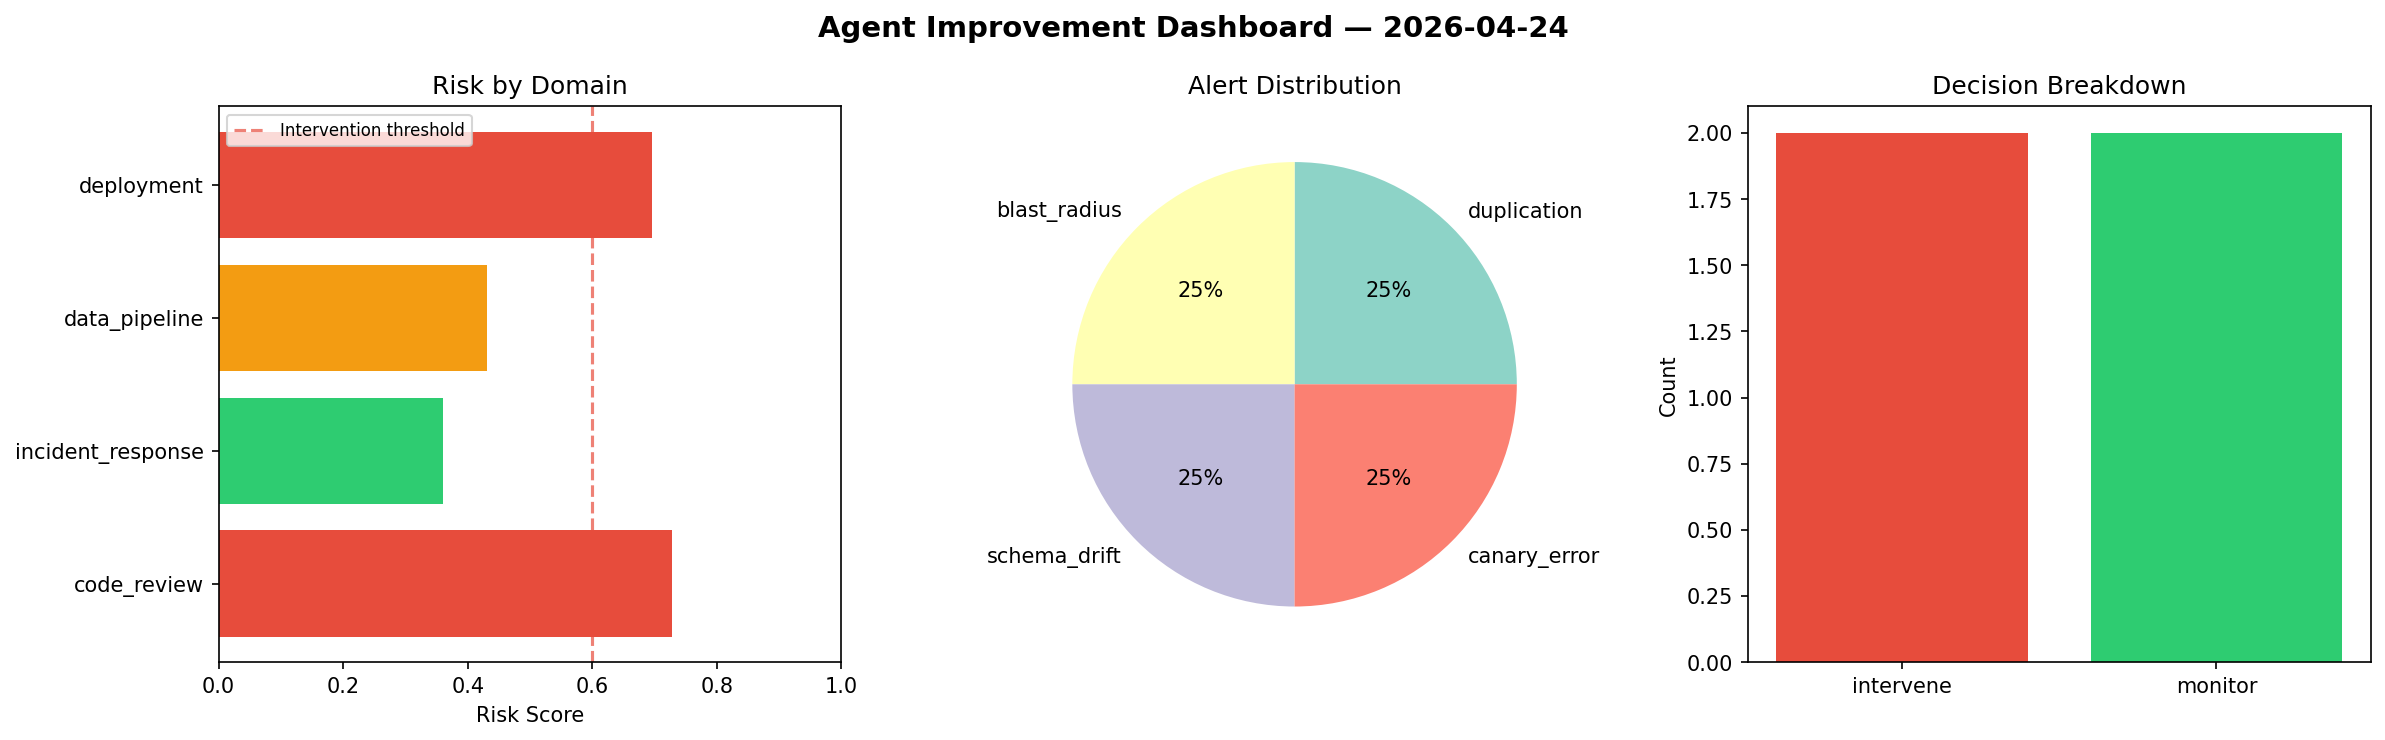
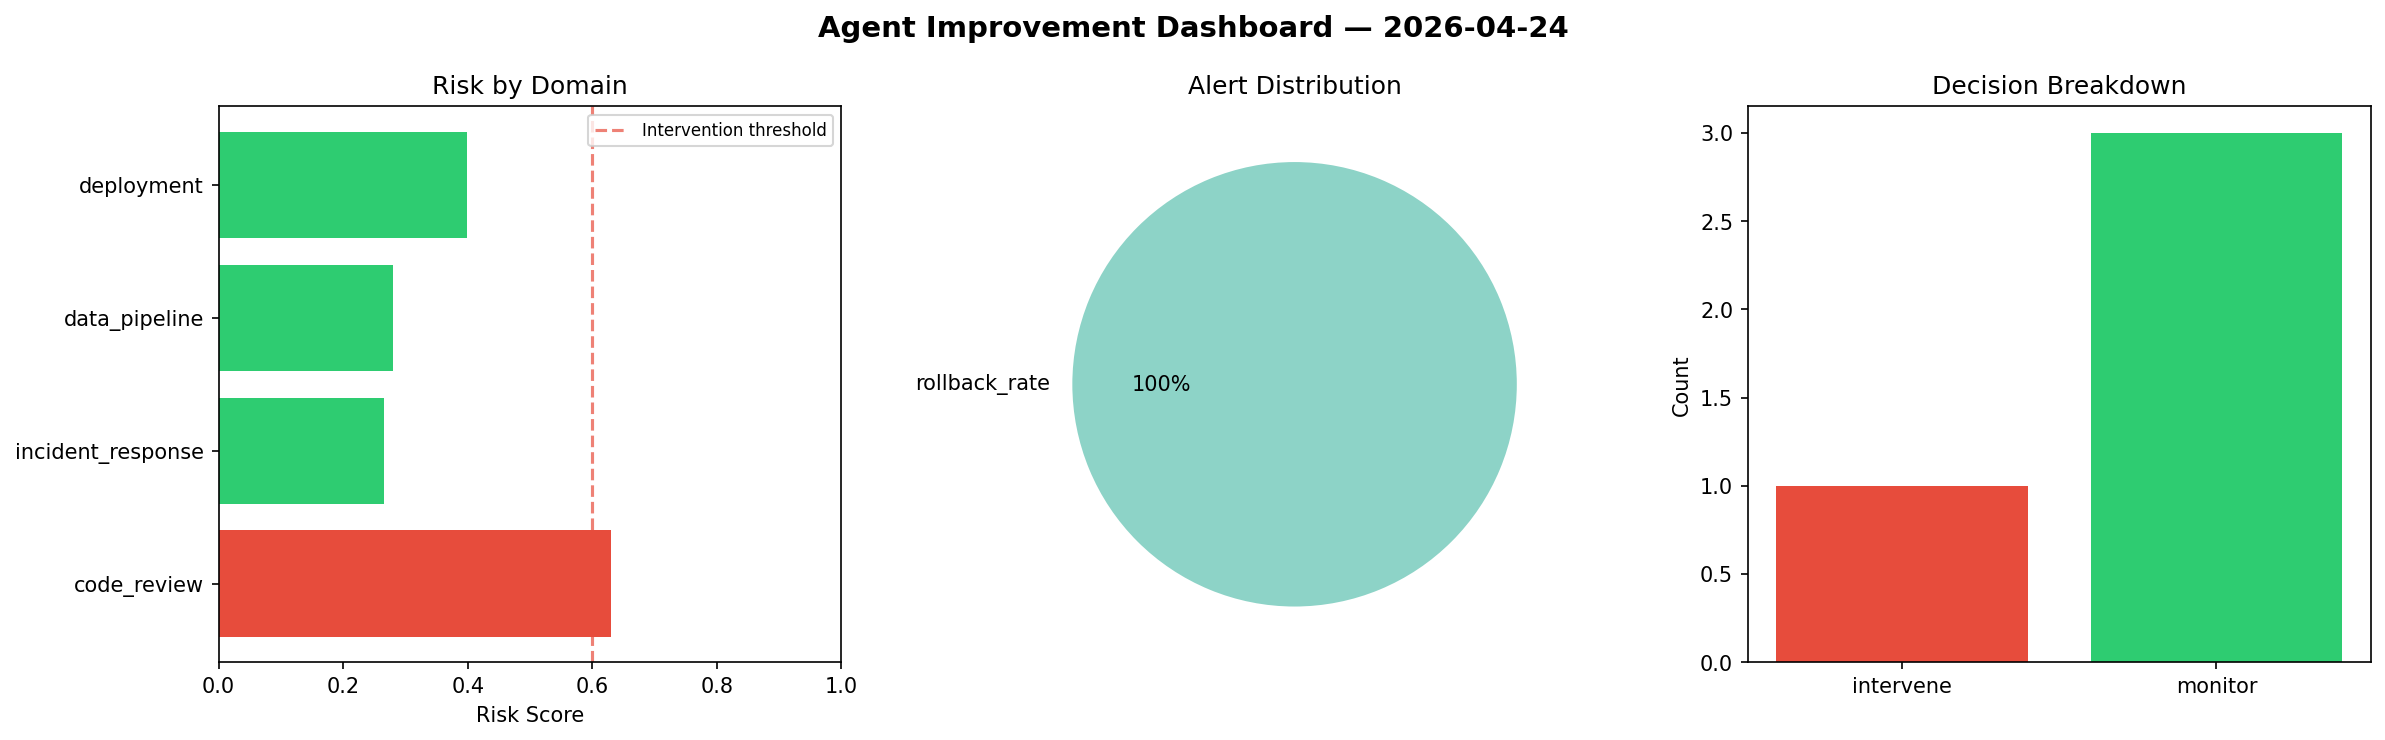
agent-improvement: daily cycle 2026-04-24T21:05

diff --git a/logs/2026-04-24.md b/logs/2026-04-24.md
@@ -1,6 +1,6 @@
 # Agent Improvement Report — 2026-04-24
 
-**Cycle ID:** `7e1a8315` | **Avg Risk:** 0.5541 | **Interventions:** 2/4
+**Cycle ID:** `a13c6e25` | **Avg Risk:** 0.3935 | **Interventions:** 1/4
 
 ![Dashboard](2026-04-24_dashboard.png)
 
@@ -10,18 +10,18 @@
 
 | Domain | Risk Score | Decision | Alerts |
 |--------|-----------|----------|--------|
-| code_review | 0.7284 | intervene | duplication |
-| incident_response | 0.36 | monitor | blast_radius |
-| data_pipeline | 0.4317 | monitor | schema_drift |
-| deployment | 0.6964 | intervene | canary_error |
+| code_review | 0.6301 | intervene | none |
+| incident_response | 0.2648 | monitor | none |
+| data_pipeline | 0.2794 | monitor | none |
+| deployment | 0.3995 | monitor | rollback_rate |
 
 ## Delta vs Yesterday
 
 | Domain | Today | Yesterday | Change |
 |--------|-------|-----------|--------|
-| code_review | 0.7284 | 0.3193 | 📈 128.1% |
-| incident_response | 0.36 | 0.6369 | 📉 -43.5% |
-| data_pipeline | 0.4317 | 0.5972 | 📉 -27.7% |
-| deployment | 0.6964 | 0.5002 | 📈 39.2% |
+| code_review | 0.6301 | 0.3193 | 📈 97.3% |
+| incident_response | 0.2648 | 0.6369 | 📉 -58.4% |
+| data_pipeline | 0.2794 | 0.5972 | 📉 -53.2% |
+| deployment | 0.3995 | 0.5002 | 📉 -20.1% |
 
 **Refinement:** `{'adjustment': 'maintain', 'trend': 'improving', 'window': 4}`
